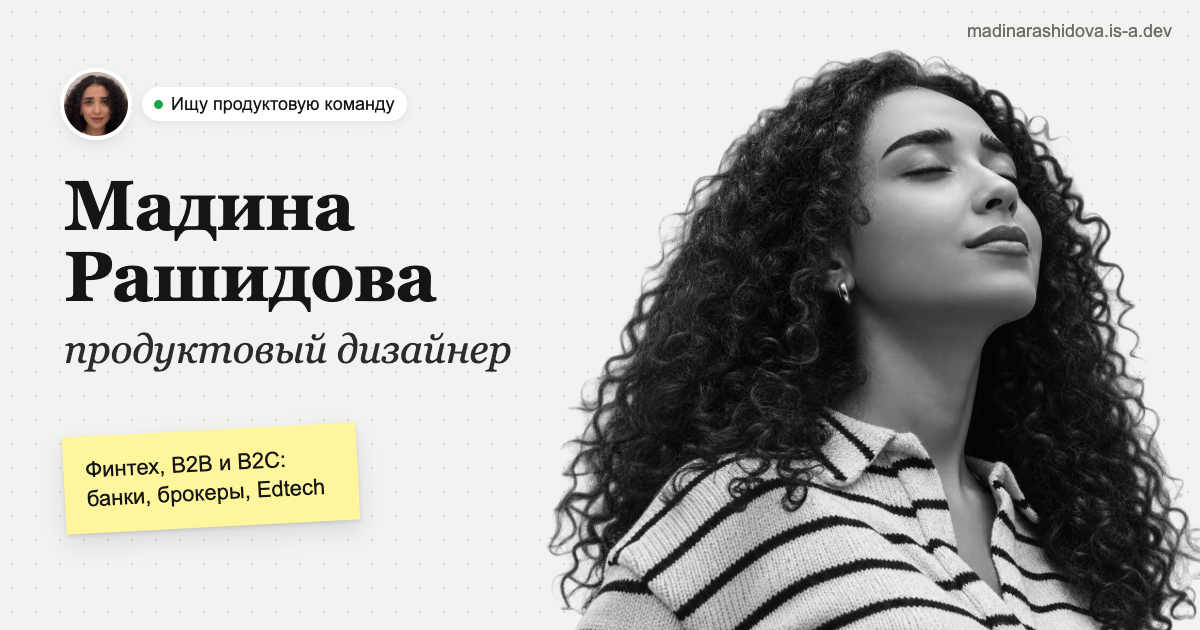
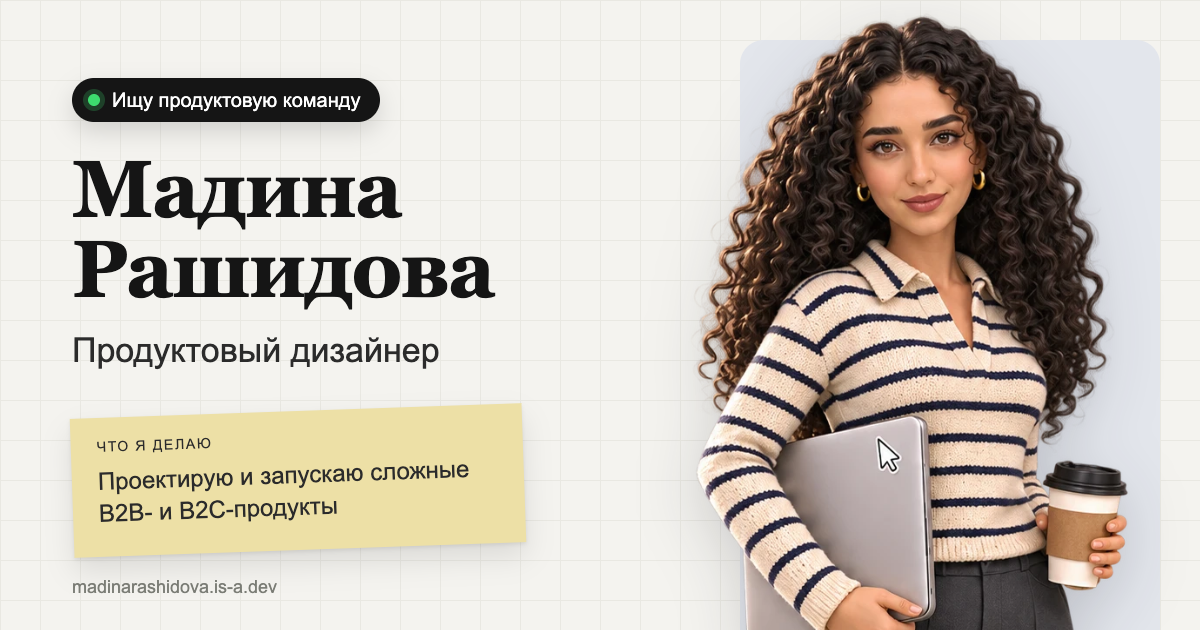
New link preview cover with the illustrated character

diff --git a/case-sber-split.html b/case-sber-split.html
@@ -13,7 +13,7 @@
 <meta property="og:title" content="Разделение счёта в СберБанк Онлайн · Мадина Рашидова">
 <meta property="og:description" content="Концепт разделения ресторанного счёта для СберБанк Онлайн: прототип, в котором участник проверяет свою долю по позициям, а создатель отслеживает возвраты. Не внедрён в приложение банка.">
 <meta property="og:url" content="https://madinarashidova.is-a.dev/case-sber-split.html">
-<meta property="og:image" content="https://madinarashidova.is-a.dev/assets/og-cover.png?v=3">
+<meta property="og:image" content="https://madinarashidova.is-a.dev/assets/og-cover.png?v=6">
 <meta property="og:image:width" content="1200">
 <meta property="og:image:height" content="630">
 <meta property="og:locale" content="ru_RU">

diff --git a/case-reskill-import.html b/case-reskill-import.html
@@ -13,7 +13,7 @@
 <meta property="og:title" content="Перенос данных в Re-skill · Мадина Рашидова">
 <meta property="og:description" content="Перенос участников, навыков и целей в Re-skill: один черновик для связанных данных, разбор проблемных записей и проверка до сохранения. В разработке.">
 <meta property="og:url" content="https://madinarashidova.is-a.dev/case-reskill-import.html">
-<meta property="og:image" content="https://madinarashidova.is-a.dev/assets/og-cover.png?v=3">
+<meta property="og:image" content="https://madinarashidova.is-a.dev/assets/og-cover.png?v=6">
 <meta property="og:image:width" content="1200">
 <meta property="og:image:height" content="630">
 <meta property="og:locale" content="ru_RU">

diff --git a/index.html b/index.html
@@ -13,7 +13,7 @@
 <meta property="og:title" content="Мадина Рашидова · Продуктовый дизайнер">
 <meta property="og:description" content="Мадина Рашидова, продуктовый дизайнер в финтехе, B2B и B2C. Кейсы: Alif Partners, перенос данных в Re-skill, разделение счёта в СберБанк Онлайн, EAJ Trader, 360 Tracker.">
 <meta property="og:url" content="https://madinarashidova.is-a.dev/">
-<meta property="og:image" content="https://madinarashidova.is-a.dev/assets/og-cover.png?v=3">
+<meta property="og:image" content="https://madinarashidova.is-a.dev/assets/og-cover.png?v=6">
 <meta property="og:image:width" content="1200">
 <meta property="og:image:height" content="630">
 <meta property="og:locale" content="ru_RU">

diff --git a/about.html b/about.html
@@ -13,7 +13,7 @@
 <meta property="og:title" content="Обо мне · Мадина Рашидова">
 <meta property="og:description" content="Продуктовый дизайнер. Разбираюсь в сложных системах и стараюсь оставлять их сложность внутри продукта, а не на экране пользователя.">
 <meta property="og:url" content="https://madinarashidova.is-a.dev/about.html">
-<meta property="og:image" content="https://madinarashidova.is-a.dev/assets/og-cover.png?v=3">
+<meta property="og:image" content="https://madinarashidova.is-a.dev/assets/og-cover.png?v=6">
 <meta property="og:image:width" content="1200">
 <meta property="og:image:height" content="630">
 <meta property="og:locale" content="ru_RU">

diff --git a/case-alif-partners.html b/case-alif-partners.html
@@ -13,7 +13,7 @@
 <meta property="og:title" content="Alif Partners · Мадина Рашидова">
 <meta property="og:description" content="Alif Partners: партнёрский кабинет для продаж на Alif Shop и обработки заявок. Проблема, исследование, гипотеза, метрики, решения и итог.">
 <meta property="og:url" content="https://madinarashidova.is-a.dev/case-alif-partners.html">
-<meta property="og:image" content="https://madinarashidova.is-a.dev/assets/og-cover.png?v=3">
+<meta property="og:image" content="https://madinarashidova.is-a.dev/assets/og-cover.png?v=6">
 <meta property="og:image:width" content="1200">
 <meta property="og:image:height" content="630">
 <meta property="og:locale" content="ru_RU">

diff --git a/case-eaj-trader.html b/case-eaj-trader.html
@@ -13,7 +13,7 @@
 <meta property="og:title" content="EAJ Trader · Мадина Рашидова">
 <meta property="og:description" content="EAJ Trader: MVP первого клиентского кабинета нового брокера. Исследование, гипотеза, метрики, решения и итог.">
 <meta property="og:url" content="https://madinarashidova.is-a.dev/case-eaj-trader.html">
-<meta property="og:image" content="https://madinarashidova.is-a.dev/assets/og-cover.png?v=3">
+<meta property="og:image" content="https://madinarashidova.is-a.dev/assets/og-cover.png?v=6">
 <meta property="og:image:width" content="1200">
 <meta property="og:image:height" content="630">
 <meta property="og:locale" content="ru_RU">

diff --git a/case-360-tracker.html b/case-360-tracker.html
@@ -13,7 +13,7 @@
 <meta property="og:title" content="360 Tracker · Мадина Рашидова">
 <meta property="og:description" content="360 Tracker. MVP семейного трекера для iOS за 6 месяцев. Разбор процесса: анализ конкурентов, user flow, итоги.">
 <meta property="og:url" content="https://madinarashidova.is-a.dev/case-360-tracker.html">
-<meta property="og:image" content="https://madinarashidova.is-a.dev/assets/og-cover.png?v=3">
+<meta property="og:image" content="https://madinarashidova.is-a.dev/assets/og-cover.png?v=6">
 <meta property="og:image:width" content="1200">
 <meta property="og:image:height" content="630">
 <meta property="og:locale" content="ru_RU">
